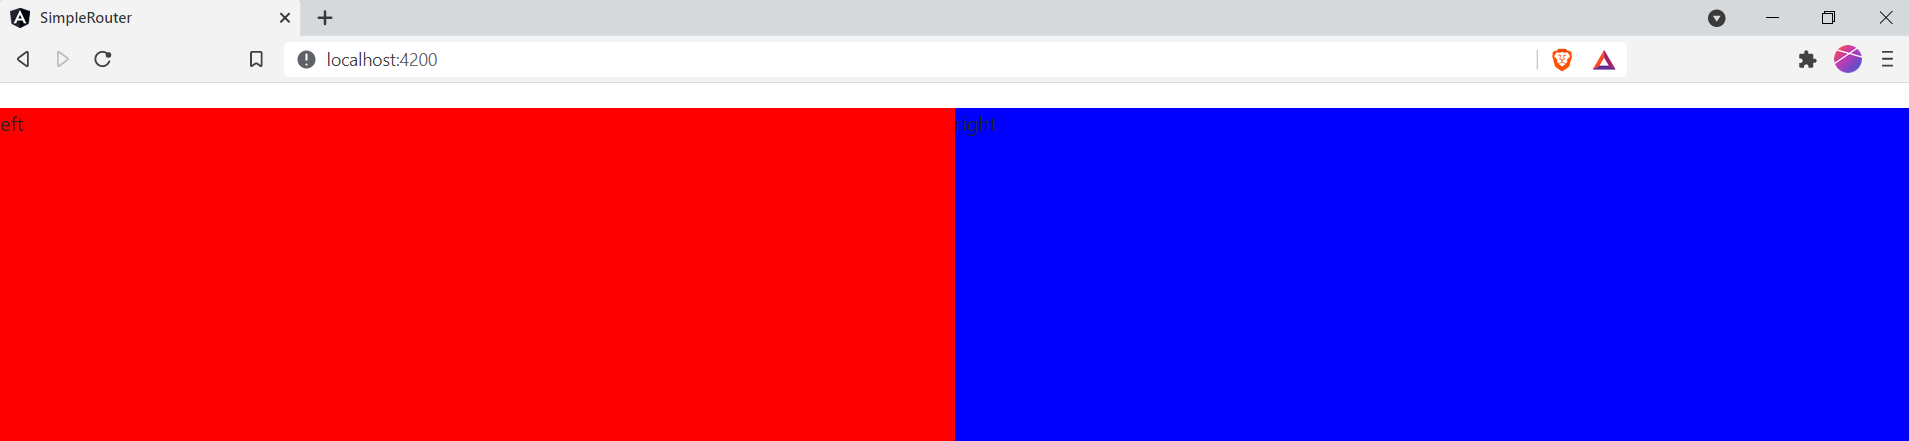
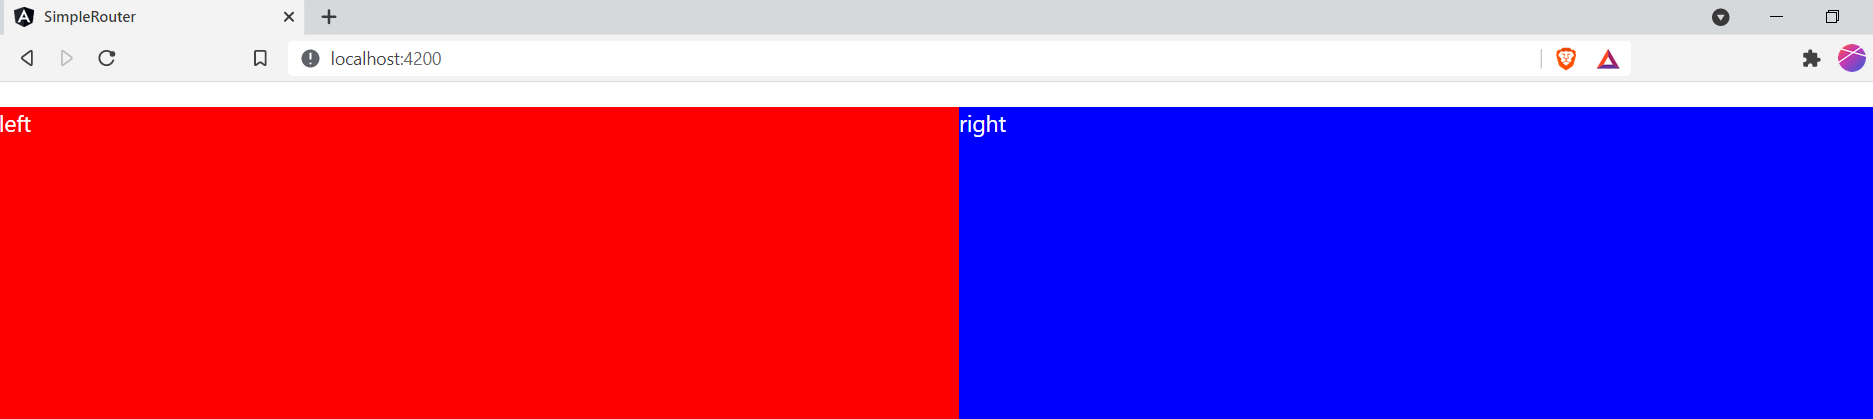
Atualizado imagem do README.md

diff --git a/src/app/right/right.component.css b/src/app/right/right.component.css
@@ -2,4 +2,6 @@
   height: 100%;
   width: 100%;
   background-color: blue;
+  font-size: large;
+  color: white;
 }

diff --git a/src/app/left/left.component.css b/src/app/left/left.component.css
@@ -2,4 +2,6 @@
   height: 100%;
   width: 100%;
   background-color: red;
+  font-size: large;
+  color: white;
 }
